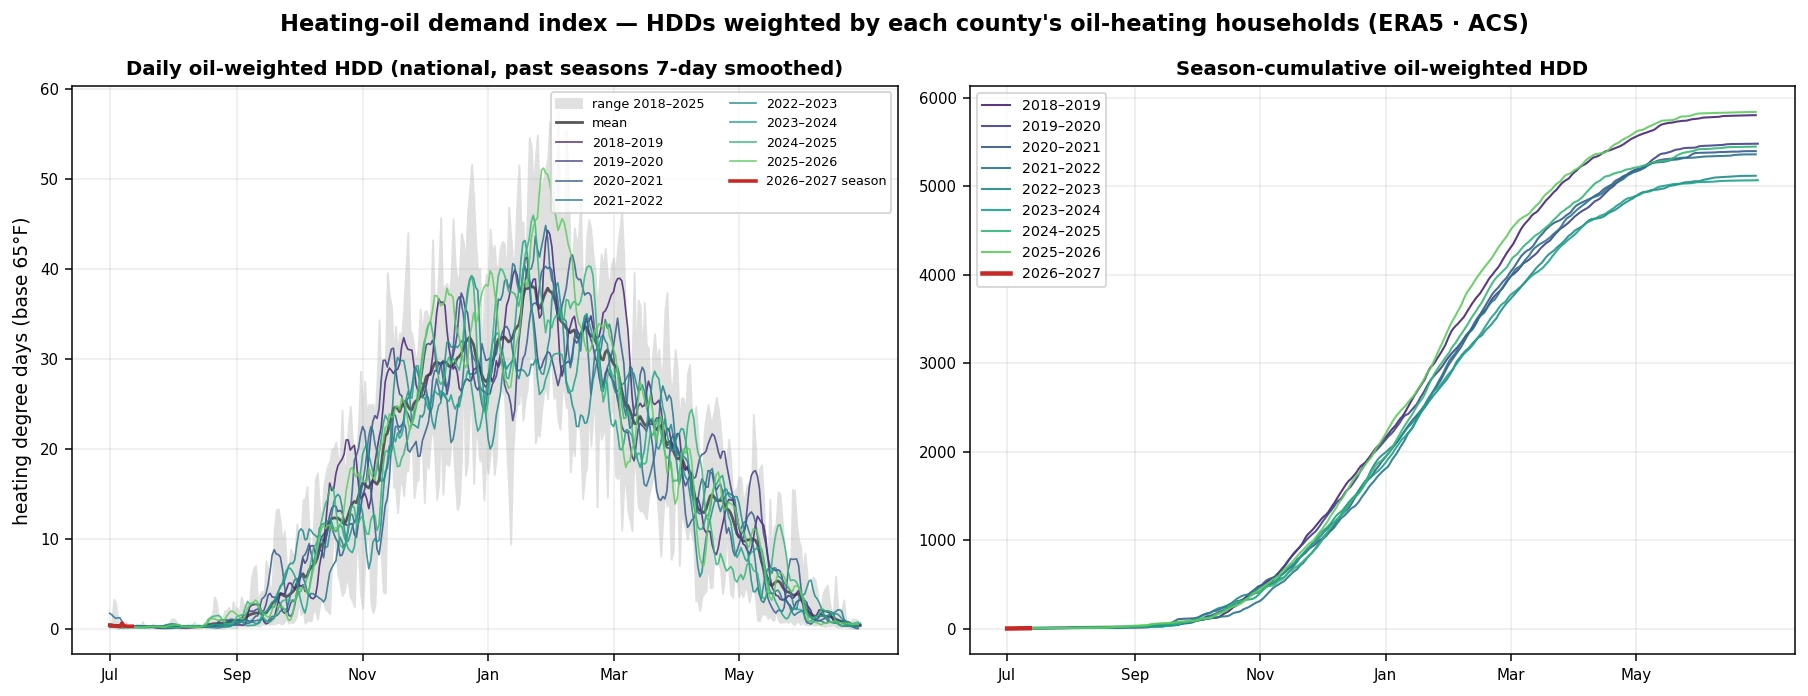
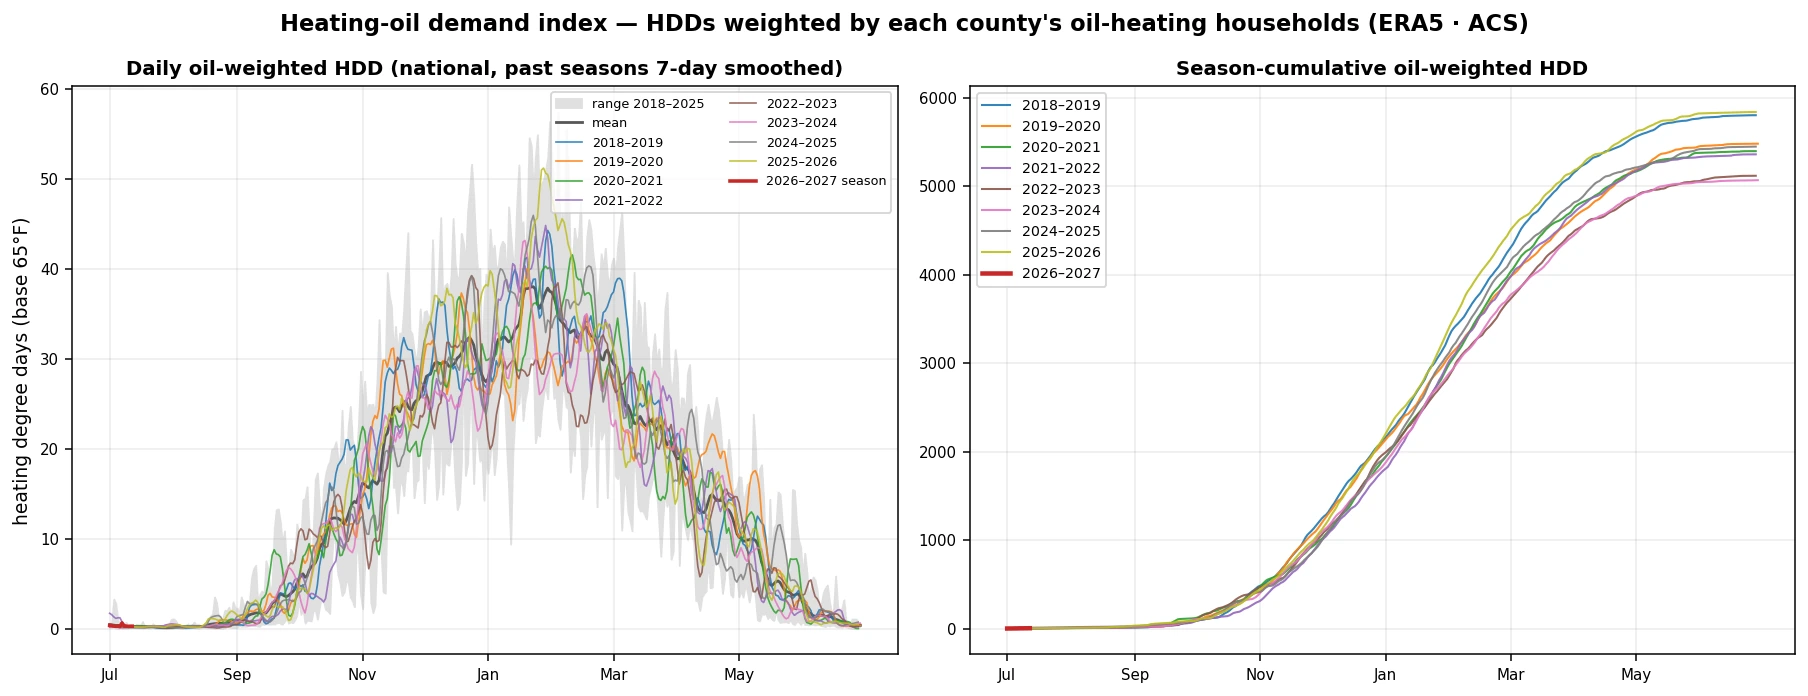
HDD chart: distinct qualitative season colors (viridis greens blurred together)

diff --git a/scripts/heatoil/hdd_index.py b/scripts/heatoil/hdd_index.py
@@ -136,10 +136,10 @@ def chart(df: pd.DataFrame):
     a1.plot(env.mean().reindex(days).index,
             env.mean().reindex(days).rolling(7, center=True, min_periods=1).mean(),
             color="0.35", lw=1.5, label="mean")
-    from matplotlib import cm
     seasons = sorted(df["season"].unique())[-10:]
-    colors = {s: cm.viridis(0.1 + 0.75 * i / max(len(seasons) - 1, 1))
-              for i, s in enumerate(seasons)}
+    palette = ["#1f77b4", "#ff7f0e", "#2ca02c", "#9467bd", "#8c564b",
+               "#e377c2", "#7f7f7f", "#bcbd22", "#17becf", "#aec7e8"]
+    colors = {s: palette[i % len(palette)] for i, s in enumerate(seasons)}
     for s in seasons[:-1]:                          # recent seasons, 7-day smoothed
         g = df[df["season"] == s].sort_values("sday")
         a1.plot(g["sday"], g["oil_hdd"].rolling(7, center=True, min_periods=1).mean(),
